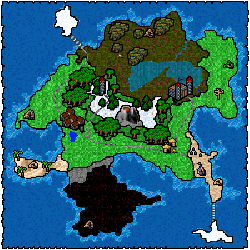
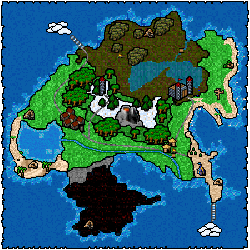
Install the approved ground and aboveground maps; el_Heidan shows the aboveground map

diff --git a/src/ui/scrolls.js b/src/ui/scrolls.js
@@ -114,17 +114,21 @@ function scrollOpen(currentContent,height = (window.innerHeight - (ui.objectSize
   }
 
 
+// Which map picture shows a zone (docs/MAPS.md): el_Heidan is aboveground, the mine, the cave and
+// the volcano are underground, everything else is ground.
+function mapLayerFor(zone){
+    if (zone == "el_Heidan") return "mapaboveground";
+    if (zone == "la_Mina" || zone == "la_Cueva" || zone == "el_Volcan") return "mapaunderground";
+    return "mapa";
+}
+
 // Place the map marker (speech bubble) on the wizard's current stage.
 function localizarBocadillo(){
     if (ui.currentBackGround == "curanderobg"){
         el("bocadilloMapa").style.display ="none";
         el("pjMapa").style.display ="none";
     }else{
-        if(state.zone.current == "la_Mina" || state.zone.current == "la_Cueva" || state.zone.current == "el_Volcan"){
-            el("backMapa").src = art(`mapaunderground`);
-        }else{
-            el("backMapa").src = art(`mapa`);
-        }
+        el("backMapa").src = art(mapLayerFor(state.zone.current));
         if(!ui.currentBackGround.match(/_altar/) && !ui.currentBackGround.match(/_estatua/)){
         const localidad = places[ui.currentBackGround];
         el("zoneMap").innerHTML= `The ${zones[state.zone.current].name}`;
@@ -470,6 +474,7 @@ const PAGE_RENDER = { stats: updateStats, kill: updateKill, achievements: update
 export {
     counterText,
     localizarBocadillo,
+    mapLayerFor,
     scrollClose,
     scrollOpen,
     updateAchievements,

diff --git a/src/ui/menu.js b/src/ui/menu.js
@@ -7,7 +7,7 @@ import * as loop from '../loop.js';
 import { pauseToggle } from '../game.js';
 import { chapterRead } from '../story.js';
 import { masterTime } from '../config.js';
-import { localizarBocadillo, scrollClose, scrollOpen, updateAchievements, updateFaith, updateHelp, updateKill, updateStats } from './scrolls.js';
+import { localizarBocadillo, mapLayerFor, scrollClose, scrollOpen, updateAchievements, updateFaith, updateHelp, updateKill, updateStats } from './scrolls.js';
 import { el } from './dom.js';
 import { stats } from '../stats.js';
 import { clearNPC, playWizardAnim } from './render.js';
@@ -71,11 +71,7 @@ function btnCloseEvent(){
 
 // Toolbar: open the map with the wizard's position.
 function mapBtn(){
-    if(state.zone.current == "la_Mina" || state.zone.current == "la_Cueva" || state.zone.current == "el_Volcan"){
-        el("backMapa").src = art(`mapaunderground`);
-    }else{
-        el("backMapa").src = art(`mapa`);
-    }
+    el("backMapa").src = art(mapLayerFor(state.zone.current));
     el("bocadilloMapa").src = art(`bocadillo`);
     el("pjMapa").src = art(`lvl${Math.floor(state.player.lvl / 10) * 10}`);
     el("mapa").style.display = "block";

diff --git a/src/media.js b/src/media.js
@@ -33,7 +33,7 @@ const WIZARD_ANIM = { cast: 'cast', walk: 'walk', pray: 'pray', fall_sit: 'fall'
 const STORY = /^(god_|anim_god_|anim_shrine_|healer|curandero|mistico|comerciante|jugon)/;
 const OBJECTS = /^(chest\d|pot\d|bag$|barrel$|box$|libro\d|runa\d|item_|d[1-6]$|ship$|captain$|crew$|sleepingbag$|stuff$|staff_\d+$)/;
 const APP = /^(favicon|apple-touch-icon|mstile|icon\d*$|safari-pinned-tab)/;
-const UI = /^(achivement|attack|bocadillo|boss|CloseBtn|console|continue|crash|emptyLongBtn|frame|gold|heal|heart\d*|helpbtn|initBack|learn|mapa|mapaunderground|mapbtn|matar|muerto|nubes|plegariabtn|scroll\w*|spirit|star|start|statsbtn|archbtn|diebtn|xp)$/;
+const UI = /^(achivement|attack|bocadillo|boss|CloseBtn|console|continue|crash|emptyLongBtn|frame|gold|heal|heart\d*|helpbtn|initBack|learn|mapa|mapaunderground|mapaboveground|mapbtn|matar|muerto|nubes|plegariabtn|scroll\w*|spirit|star|start|statsbtn|archbtn|diebtn|xp)$/;
 
 // The folder of an image (without img/), or '' when no rule knows the name.
 export function artFolder(name) {

diff --git a/ideas.md b/ideas.md
@@ -115,3 +115,4 @@ Newest first; keep the last three, cut older ones to the archive.
 - 2026-11-19 (dev): docs cleanup: SCROLLS.md archived whole (pilot done, no spread to other scrolls); STATS, AWAY and ROADMAP trimmed to what is still open; finished parts in docs/ARCHIVE.md.
 - 2026-11-19 (dev): docs cleanup 2: SCENE_SPELLS boss effects and FAITH sections 1-2 archived; FAITH has a status paragraph. SCENES.md is untouched: no scene engine exists yet.
 - 2026-11-19 (dev): step 1 of docs/MAPS.md done: the sea strip at the left edge of las_dunas1..5 is painted out (the artist's files, approved by the author). New bug noted in dev-notes: the tab never restarts after inactivity (empty console), needs a repro.
+- 2026-11-19 (dev): installed the approved maps (img/ui/mapa.png = mapa_b4, img/ui/mapaboveground.png = mapaboveground_b); mapLayerFor in src/ui/scrolls.js picks the map (el_Heidan aboveground), used by the map button and the marker. Heidan map x/y kept as they were (they sit on the new clouds). Not run in a browser yet. Left in docs/MAPS.md: the beach zone la_playa, the portals as the wizard's path, bridge and border scenes, the walkable Dunes shore.

diff --git a/CHANGELOG.md b/CHANGELOG.md
@@ -1,6 +1,7 @@
 # Changelog
 
 ## Unreleased
+- New maps: the ground map is repainted (a lake and a river, a thin land bridge from the Dunes to the Prairie, a beach along the north and east coast, bridges marked in the Prairie and the Swamp; the two Heidan cloud islands are gone, only the sacred stairs with a cluster of clouds at their end remain). Heidan has its own aboveground map now: two big clouds over a blurred copy of the ground, with portals and the props of its scenes; the map button shows it while the wizard is in Heidan. The portals and the new beach zone are still to come.
 - Dunes: the thin strip of sea at the left edge of all five Dunes scenes, where the wizard walks in, is painted out as sand, so he no longer walks through the water. A walkable shore will come back with the map revamp.
 n- Toolbar buttons could stay dead after the game opened, with only the ? working at some point: opening a second scroll right after another (the chapter scrolls) saved a blocked button as its handler. Blocking the toolbar now keeps the real handlers.
 
